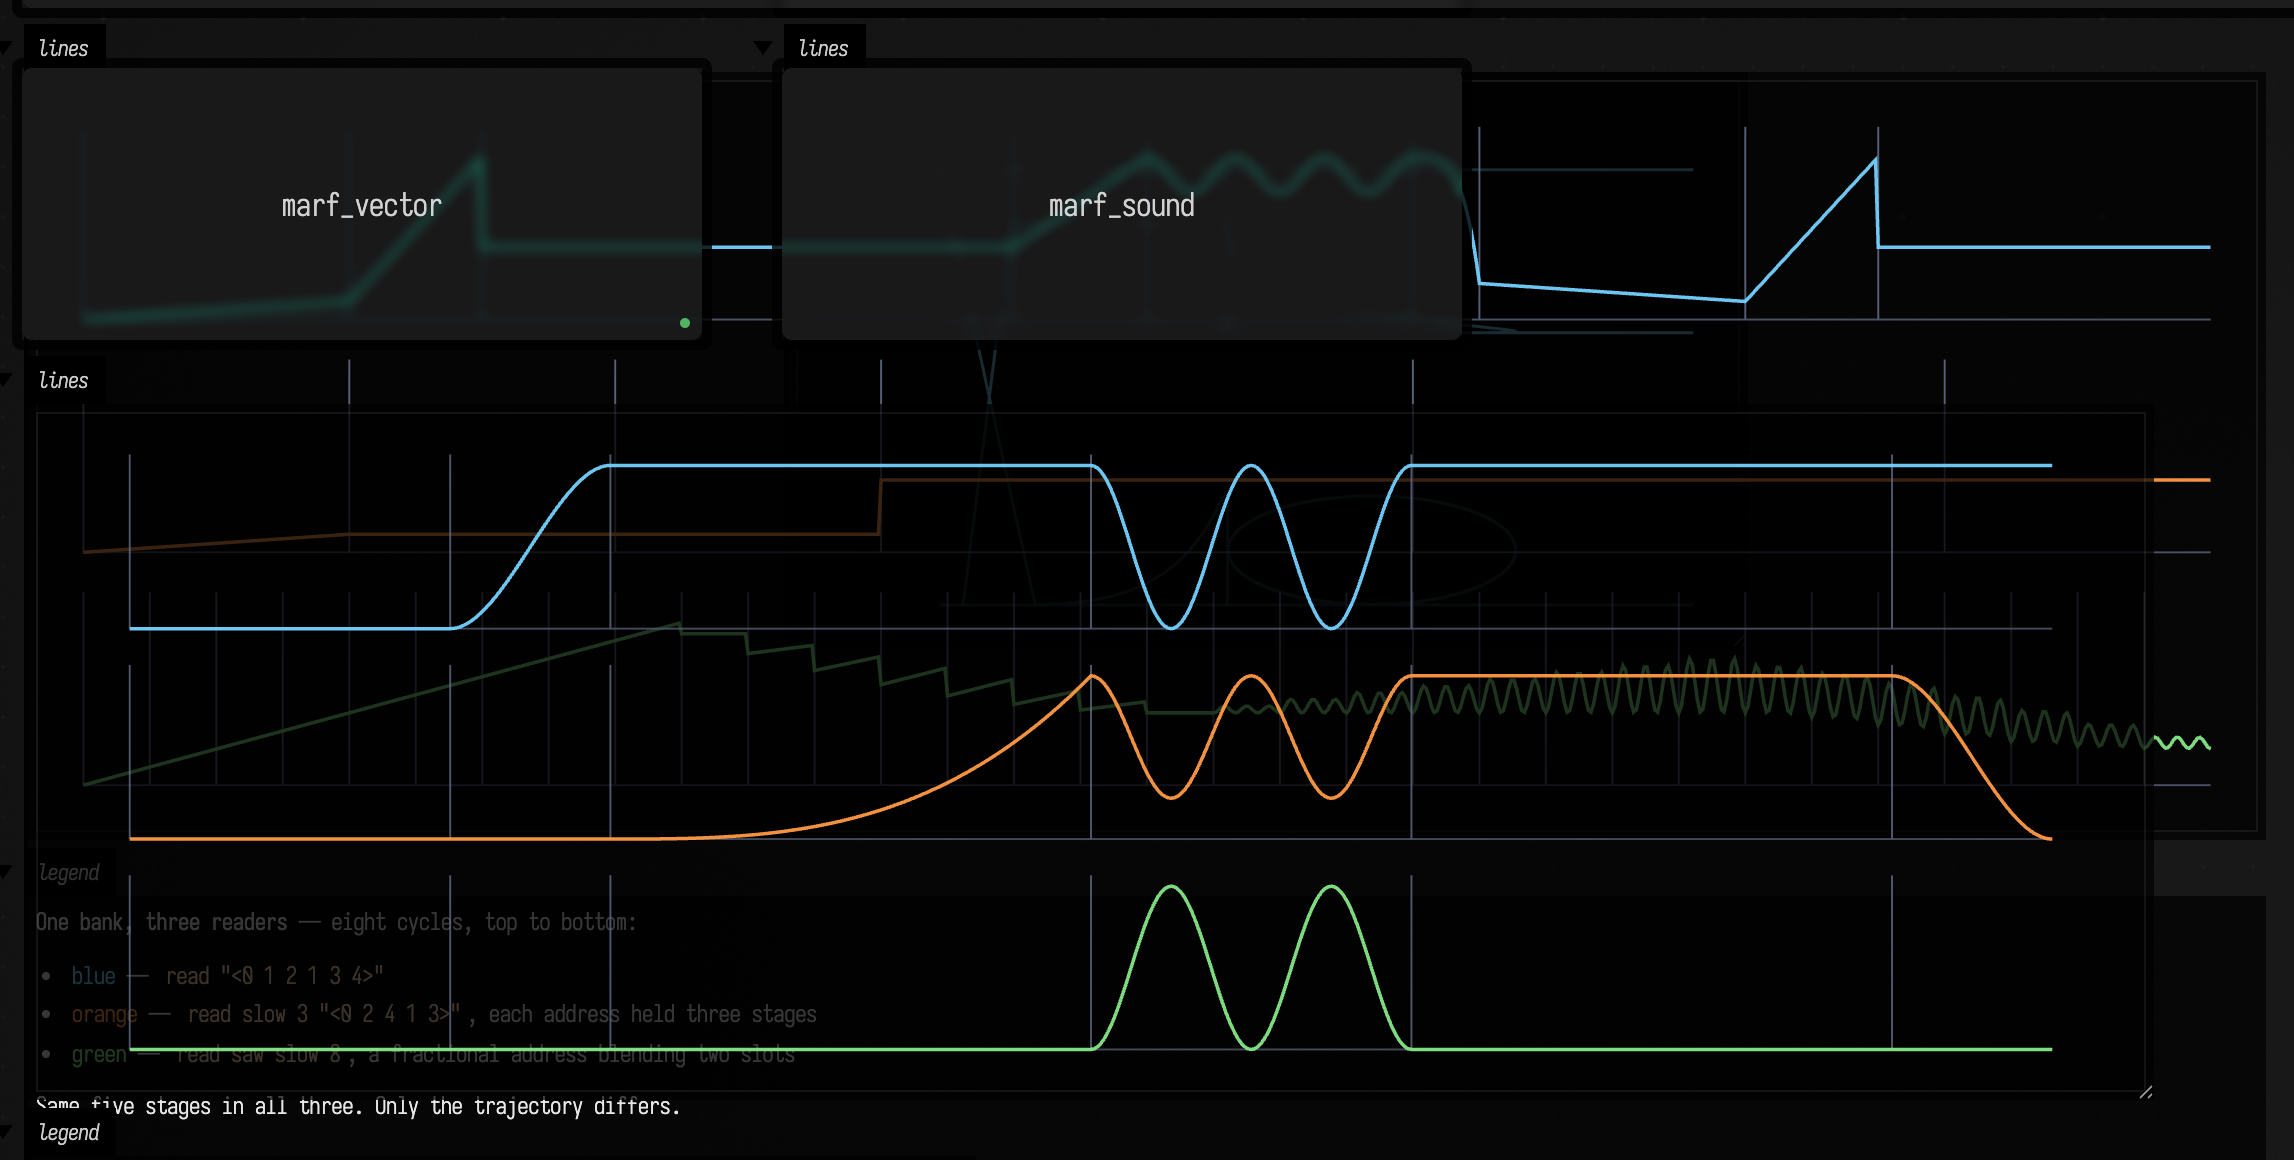
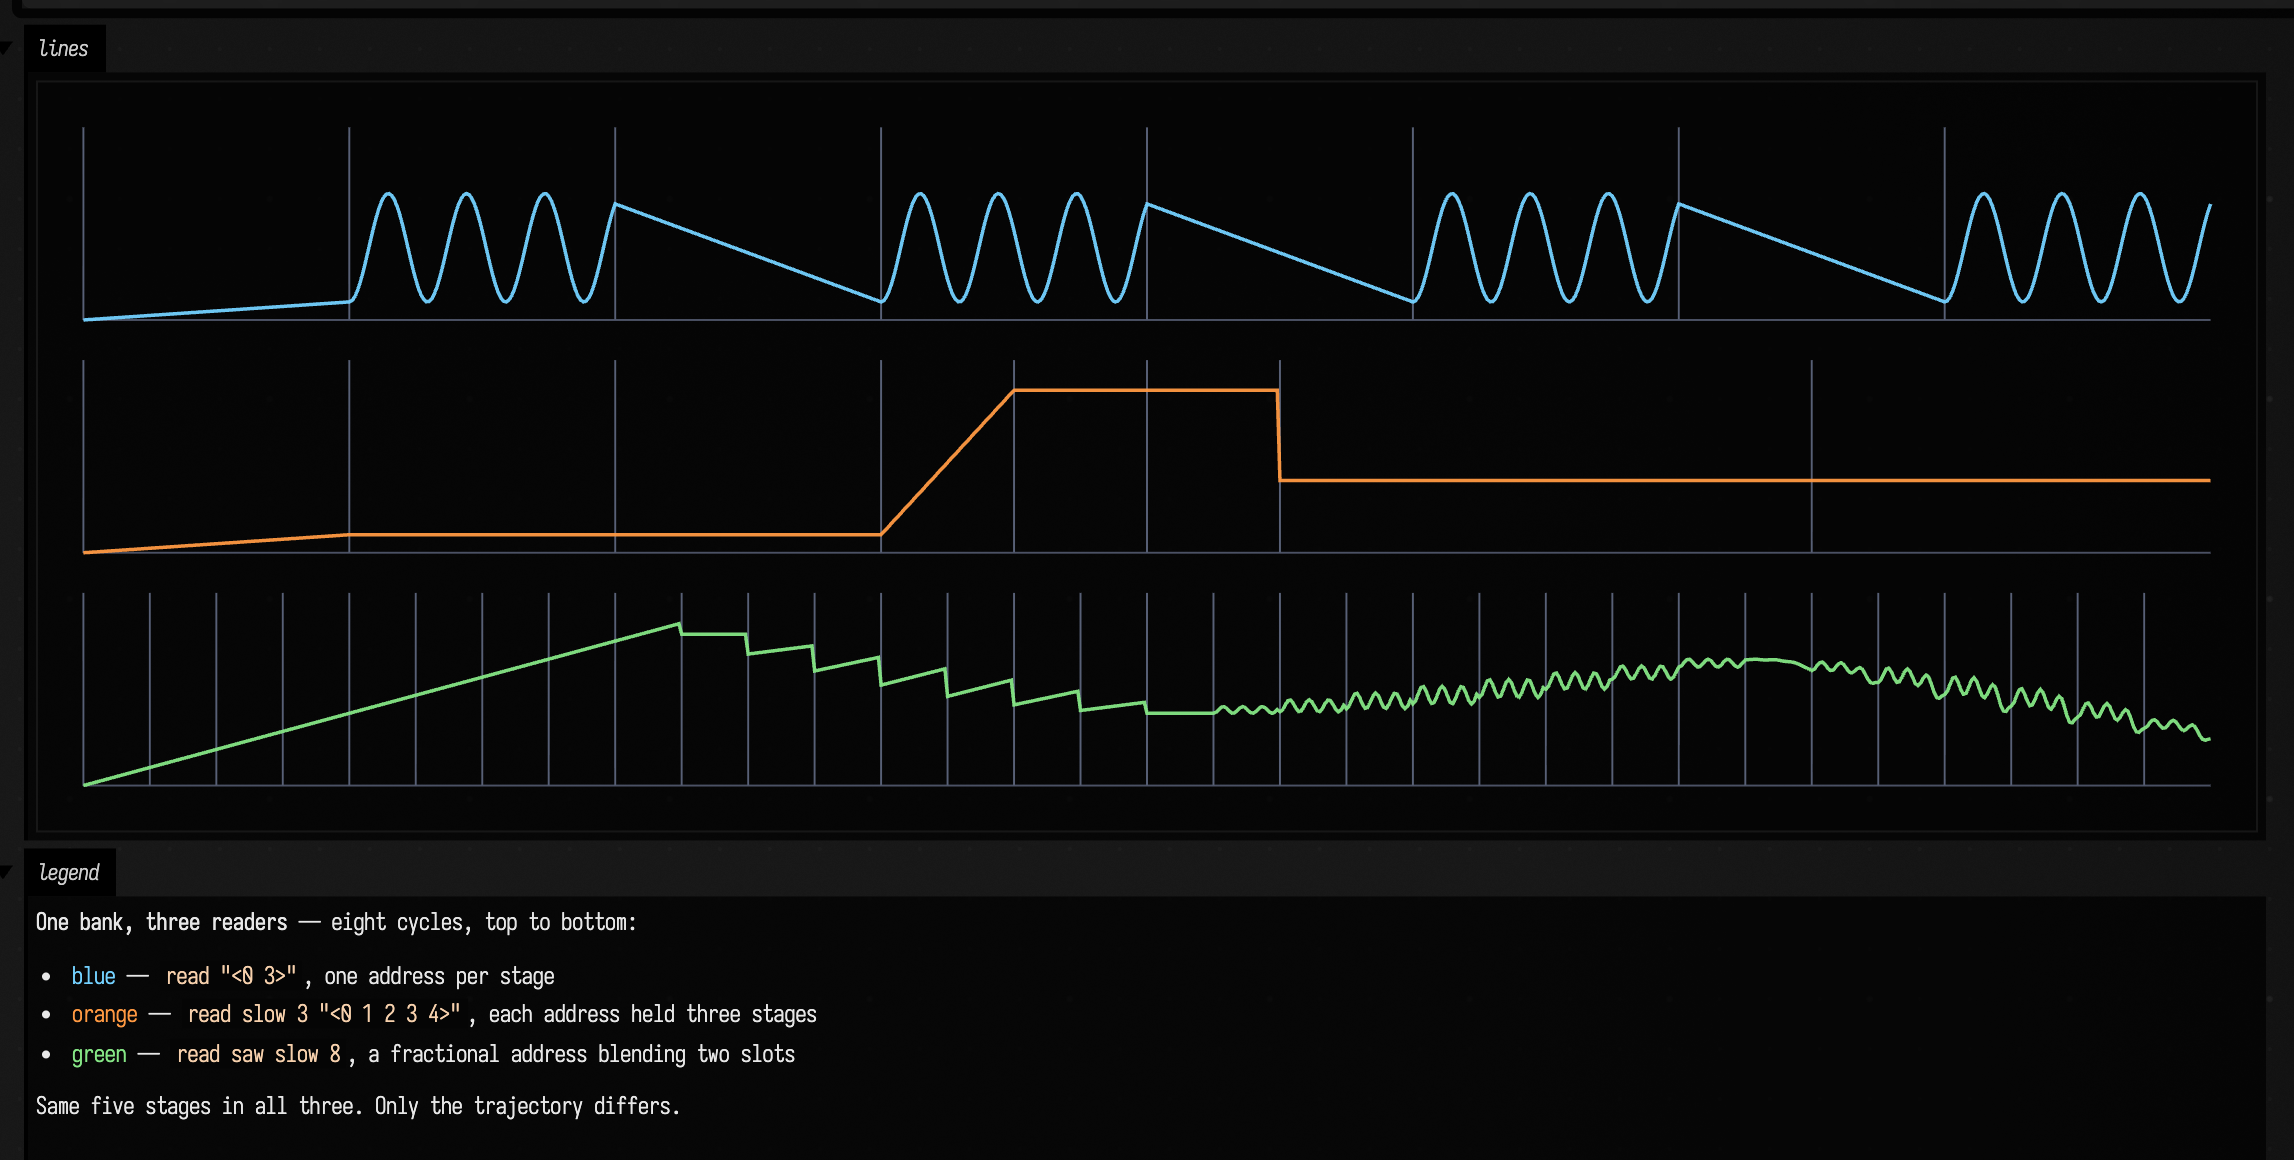
marf_demo: the legend says what the code now reads, everywhere it is copied
Box 1's code and its own legend had disagreed since the readers were edited in
Field: the code read "<0 3>" and "<0 1 2 3 4>".slow(3) while the legend still
named "<0 1 2 1 3 4>" and "<0 2 4 1 3>". Visible on screen, in the committed
figure, and in the published starting-point bundle.

The edit went through Field rather than into metadata.edn by hand, because
AgentDemoDriftGuard asserts that file is byte-identical to the codec's own
output and there is no way to hand-write that reliably -- the backdoor's `set`
lets the codec write all three of metadata.edn, document.md and the loose
sidecar. The guard passes: 21 documents, 80 inline files.

Four copies of that text existed and all four are now the same:

- the box, via Field;
- dev_docs/assets/marf_demo/readers.png, recaptured with playwright attached
  (2294x1160, so not the 48x48 a headless capture returns);
- dev_docs/agents/transcripts/marf_demo.yaml, whose embedded copy of the box
  body was written from the committed demo and had gone stale -- replaced with
  the demo file wholesale rather than patched line by line, so the two cannot
  drift again by halves;
- the materialized bundle under public/docs/assets/agent_transcripts/marf_demo,
  regenerated from that transcript.

Two more stale sentences in dev_docs/MARF_DEMO.md, both describing box 1 and
both wrong in different ways. The readers list named the old patterns and the
old `osc:3` where the bank is now cycles = 3.4. And the spatial list said `lpf`
[…]

diff --git a/dev_docs/agents/demos/marf_demo/2034cfde-3714-4224-8ceb-cba9ae68a0da_code_.kt b/dev_docs/agents/demos/marf_demo/2034cfde-3714-4224-8ceb-cba9ae68a0da_code_.kt
@@ -5,10 +5,10 @@ displayOpen("legend")
 
 val b = marfBank(
     rampTo(0.1, 1.0), rampTo(0.9, 0.5), holdAt(0.4, 2.0),
-    oscTo(0.7, 1.0, cycles = 3.0), curveTo(0.2, 0.25, amount = 4.0)
+    oscTo(0.7, 1.0, cycles = 3.4), curveTo(0.2, 0.25, amount = 4.0)
 )
-val a = b.read(pat("<0 1 2 1 3 4>").nums(), fields = MarfFieldClock.STAGES, name = "A")
-val c = b.read(pat("<0 2 4 1 3>").nums().slow(3), fields = MarfFieldClock.STAGES, name = "B")
+val a = b.read(pat("<0 3>").nums(), fields = MarfFieldClock.STAGES, name = "A")
+val c = b.read(pat("<0 1 2 3 4>").nums().slow(3), fields = MarfFieldClock.STAGES, name = "B")
 val g = b.read(saw().slow(8).range(0.0, 4.0), duration = constant(0.25), name = "glide")
 
 // Three lanes at one shared time scale, so reading down a column compares the same instant.
@@ -53,8 +53,8 @@ markdown(
     """
     **One bank, three readers** — eight cycles, top to bottom:
 
-    - <span style="color:#73d1ff">blue</span> — `read "<0 1 2 1 3 4>"`
-    - <span style="color:#ff9942">orange</span> — `read slow 3 "<0 2 4 1 3>"`, each address held three stages
+    - <span style="color:#73d1ff">blue</span> — `read "<0 3>"`, one address per stage
+    - <span style="color:#ff9942">orange</span> — `read slow 3 "<0 1 2 3 4>"`, each address held three stages
     - <span style="color:#85e585">green</span> — `read saw slow 8`, a fractional address blending two slots
 
     Same five stages in all three. Only the trajectory differs.

diff --git a/public/docs/assets/agent_transcripts/marf_demo/marf_readers_code_.kt b/public/docs/assets/agent_transcripts/marf_demo/marf_readers_code_.kt
@@ -5,10 +5,10 @@ displayOpen("legend")
 
 val b = marfBank(
     rampTo(0.1, 1.0), rampTo(0.9, 0.5), holdAt(0.4, 2.0),
-    oscTo(0.7, 1.0, cycles = 3.0), curveTo(0.2, 0.25, amount = 4.0)
+    oscTo(0.7, 1.0, cycles = 3.4), curveTo(0.2, 0.25, amount = 4.0)
 )
-val a = b.read(pat("<0 1 2 1 3 4>").nums(), fields = MarfFieldClock.STAGES, name = "A")
-val c = b.read(pat("<0 2 4 1 3>").nums().slow(3), fields = MarfFieldClock.STAGES, name = "B")
+val a = b.read(pat("<0 3>").nums(), fields = MarfFieldClock.STAGES, name = "A")
+val c = b.read(pat("<0 1 2 3 4>").nums().slow(3), fields = MarfFieldClock.STAGES, name = "B")
 val g = b.read(saw().slow(8).range(0.0, 4.0), duration = constant(0.25), name = "glide")
 
 // Three lanes at one shared time scale, so reading down a column compares the same instant.
@@ -53,8 +53,8 @@ markdown(
     """
     **One bank, three readers** — eight cycles, top to bottom:
 
-    - <span style="color:#73d1ff">blue</span> — `read "<0 1 2 1 3 4>"`
-    - <span style="color:#ff9942">orange</span> — `read slow 3 "<0 2 4 1 3>"`, each address held three stages
+    - <span style="color:#73d1ff">blue</span> — `read "<0 3>"`, one address per stage
+    - <span style="color:#ff9942">orange</span> — `read slow 3 "<0 1 2 3 4>"`, each address held three stages
     - <span style="color:#85e585">green</span> — `read saw slow 8`, a fractional address blending two slots
 
     Same five stages in all three. Only the trajectory differs.

diff --git a/dev_docs/agents/demos/marf_demo/document.md b/dev_docs/agents/demos/marf_demo/document.md
@@ -104,7 +104,7 @@ From `code`
 One bank, three readers. The bank has no position of its own; the readers do.
 
 ```edn [field-box id="2034cfde-3714-4224-8ceb-cba9ae68a0da" role="properties"]
[2 lines of base64/hex data omitted]
 ```
 
 ```kotlin [field-property box="2034cfde-3714-4224-8ceb-cba9ae68a0da" name="code" path="2034cfde-3714-4224-8ceb-cba9ae68a0da_code_.kt"]
@@ -115,10 +115,10 @@ displayOpen("legend")
 
 val b = marfBank(
     rampTo(0.1, 1.0), rampTo(0.9, 0.5), holdAt(0.4, 2.0),
-    oscTo(0.7, 1.0, cycles = 3.0), curveTo(0.2, 0.25, amount = 4.0)
+    oscTo(0.7, 1.0, cycles = 3.4), curveTo(0.2, 0.25, amount = 4.0)
 )
-val a = b.read(pat("<0 1 2 1 3 4>").nums(), fields = MarfFieldClock.STAGES, name = "A")
-val c = b.read(pat("<0 2 4 1 3>").nums().slow(3), fields = MarfFieldClock.STAGES, name = "B")
+val a = b.read(pat("<0 3>").nums(), fields = MarfFieldClock.STAGES, name = "A")
+val c = b.read(pat("<0 1 2 3 4>").nums().slow(3), fields = MarfFieldClock.STAGES, name = "B")
 val g = b.read(saw().slow(8).range(0.0, 4.0), duration = constant(0.25), name = "glide")
 
 // Three lanes at one shared time scale, so reading down a column compares the same instant.
@@ -163,8 +163,8 @@ markdown(
     """
     **One bank, three readers** — eight cycles, top to bottom:
 
-    - <span style="color:#73d1ff">blue</span> — `read "<0 1 2 1 3 4>"`
-    - <span style="color:#ff9942">orange</span> — `read slow 3 "<0 2 4 1 3>"`, each address held three stages
+    - <span style="color:#73d1ff">blue</span> — `read "<0 3>"`, one address per stage
+    - <span style="color:#ff9942">orange</span> — `read slow 3 "<0 1 2 3 4>"`, each address held three stages
     - <span style="color:#85e585">green</span> — `read saw slow 8`, a fractional address blending two slots
 
     Same five stages in all three. Only the trajectory differs.

diff --git a/public/docs/assets/agent_transcripts/marf_demo/document.md b/public/docs/assets/agent_transcripts/marf_demo/document.md
@@ -17,7 +17,7 @@ From `code`
 One bank, three readers. The bank has no position of its own; the readers do.
 
 ```edn [field-box id="marf_readers" role="properties"]
[2 lines of base64/hex data omitted]
 ```
 
 ```kotlin [field-property box="marf_readers" name="code" path="marf_readers_code_.kt"]
@@ -28,10 +28,10 @@ displayOpen("legend")
 
 val b = marfBank(
     rampTo(0.1, 1.0), rampTo(0.9, 0.5), holdAt(0.4, 2.0),
-    oscTo(0.7, 1.0, cycles = 3.0), curveTo(0.2, 0.25, amount = 4.0)
+    oscTo(0.7, 1.0, cycles = 3.4), curveTo(0.2, 0.25, amount = 4.0)
 )
-val a = b.read(pat("<0 1 2 1 3 4>").nums(), fields = MarfFieldClock.STAGES, name = "A")
-val c = b.read(pat("<0 2 4 1 3>").nums().slow(3), fields = MarfFieldClock.STAGES, name = "B")
+val a = b.read(pat("<0 3>").nums(), fields = MarfFieldClock.STAGES, name = "A")
+val c = b.read(pat("<0 1 2 3 4>").nums().slow(3), fields = MarfFieldClock.STAGES, name = "B")
 val g = b.read(saw().slow(8).range(0.0, 4.0), duration = constant(0.25), name = "glide")
 
 // Three lanes at one shared time scale, so reading down a column compares the same instant.
@@ -76,8 +76,8 @@ markdown(
     """
     **One bank, three readers** — eight cycles, top to bottom:
 
-    - <span style="color:#73d1ff">blue</span> — `read "<0 1 2 1 3 4>"`
-    - <span style="color:#ff9942">orange</span> — `read slow 3 "<0 2 4 1 3>"`, each address held three stages
+    - <span style="color:#73d1ff">blue</span> — `read "<0 3>"`, one address per stage
+    - <span style="color:#ff9942">orange</span> — `read slow 3 "<0 1 2 3 4>"`, each address held three stages
     - <span style="color:#85e585">green</span> — `read saw slow 8`, a fractional address blending two slots
 
     Same five stages in all three. Only the trajectory differs.

diff --git a/dev_docs/MARF_DEMO.md b/dev_docs/MARF_DEMO.md
@@ -31,10 +31,10 @@ val b = marfBank(
 Eight cycles, three lanes at one shared time scale, so reading down a column compares the same
 instant. The verticals are stage boundaries.
 
-- **blue** `read "<0 1 2 1 3 4>"` walks the bank a slot per stage
-- **orange** `read slow 3 "<0 2 4 1 3>"` holds each address for three stages, hence the long flats
+- **blue** `read "<0 3>"` alternates between the first slot and the fourth, one address per stage
+- **orange** `read slow 3 "<0 1 2 3 4>"` holds each address for three stages, hence the long flats
 - **green** `read saw slow 8` is a *fractional* address, which you can watch turn from a ramp into
-  the `osc:3` wiggle as it glides from slot 0 toward slot 3
+  the `osc:3.4` wiggle as it glides from slot 0 toward slot 3
 
 Same five stages in all three. Only the trajectory differs, and that is the whole claim of the
 layer in one picture.
@@ -82,9 +82,9 @@ patSpatial(voice, cps = 2.0)
 
 - `az` comes from the fractional-address reader, so the source **glides** around the listener rather
   than stepping between positions
-- `lpf` comes from the blue reader above, so its ramp, its step onto the hold and its `osc:3` wiggle
-  are all audible as filter movement
-- `dist` comes from the orange one, so distance moves in steps and then sits still
+- `lpf` comes from a `read "<0 1 2 1 3 4>"`, walking the bank a slot per stage, so its ramp, its
+  step onto the hold and its `osc:3` wiggle are all audible as filter movement
+- `dist` comes from a `read slow 3 "<0 2 4 1 3>"`, so distance moves in steps and then sits still
 
 Three of `patSpatial`'s six spatial tags take *continuous* patterns, which is why a MARF reader
 fits it without any adaptation: a reader **is** a signal.
